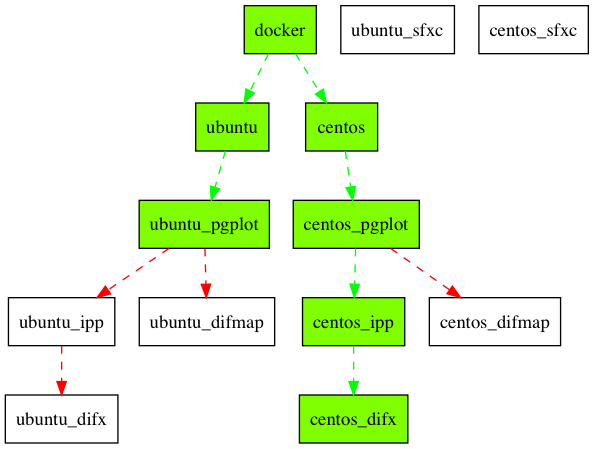
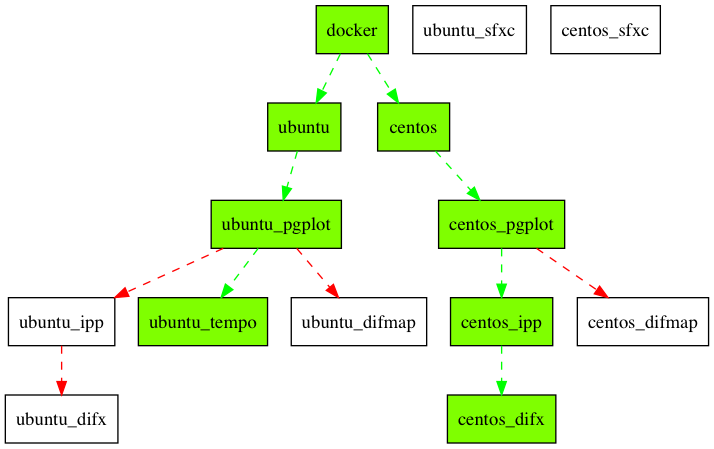
Adding tempo software

diff --git a/README.md b/README.md
@@ -59,7 +59,7 @@ $ docker run -it shaoguangleo/centos-pgplot
 |----|-----|-----|-----|
 |basic|![Support](https://github.com/shaoguangleo/AstroSoft/blob/master/images/support.png)[shaoguangleo/ubuntu](https://github.com/shaoguangleo/docker-ubuntu)|![Support](https://github.com/shaoguangleo/AstroSoft/blob/master/images/support.png) [shaoguangleo/centos](https://github.com/shaoguangleo/docker-centos)| CentOS:7.4 </br> Ubuntu:17.10|
 |pgplot|![Support](https://github.com/shaoguangleo/AstroSoft/blob/master/images/support.png) [shaoguangleo/ubuntu-pgplot](https://github.com/shaoguangleo/docker-ubuntu-pgplot/)|![Support](https://github.com/shaoguangleo/AstroSoft/blob/master/images/support.png) [shaoguangleo/centos-pgplot](https://github.com/shaoguangleo/docker-centos-pgplot/)| PGPLOT : v5.2.2 |
-|tempo|![wait](https://github.com/shaoguangleo/AstroSoft/blob/master/images/wait.png) |![wait](https://github.com/shaoguangleo/AstroSoft/blob/master/images/wait.png)||
+|tempo|![Support](https://github.com/shaoguangleo/AstroSoft/blob/master/images/support.png)[shaoguangleo/ubuntu-pulsar](https://github.com/shaoguangleo/docker-ubuntu-pulsar) |![wait](https://github.com/shaoguangleo/AstroSoft/blob/master/images/wait.png)|Tempo V20170729 |
 |tempo2|![wait](https://github.com/shaoguangleo/AstroSoft/blob/master/images/wait.png)|![wait](https://github.com/shaoguangleo/AstroSoft/blob/master/images/wait.png)||
 |sigproc|![wait](https://github.com/shaoguangleo/AstroSoft/blob/master/images/wait.png)|![wait](https://github.com/shaoguangleo/AstroSoft/blob/master/images/wait.png)||
 |presto|![wait](https://github.com/shaoguangleo/AstroSoft/blob/master/images/wait.png)|![wait](https://github.com/shaoguangleo/AstroSoft/blob/master/images/wait.png)||
